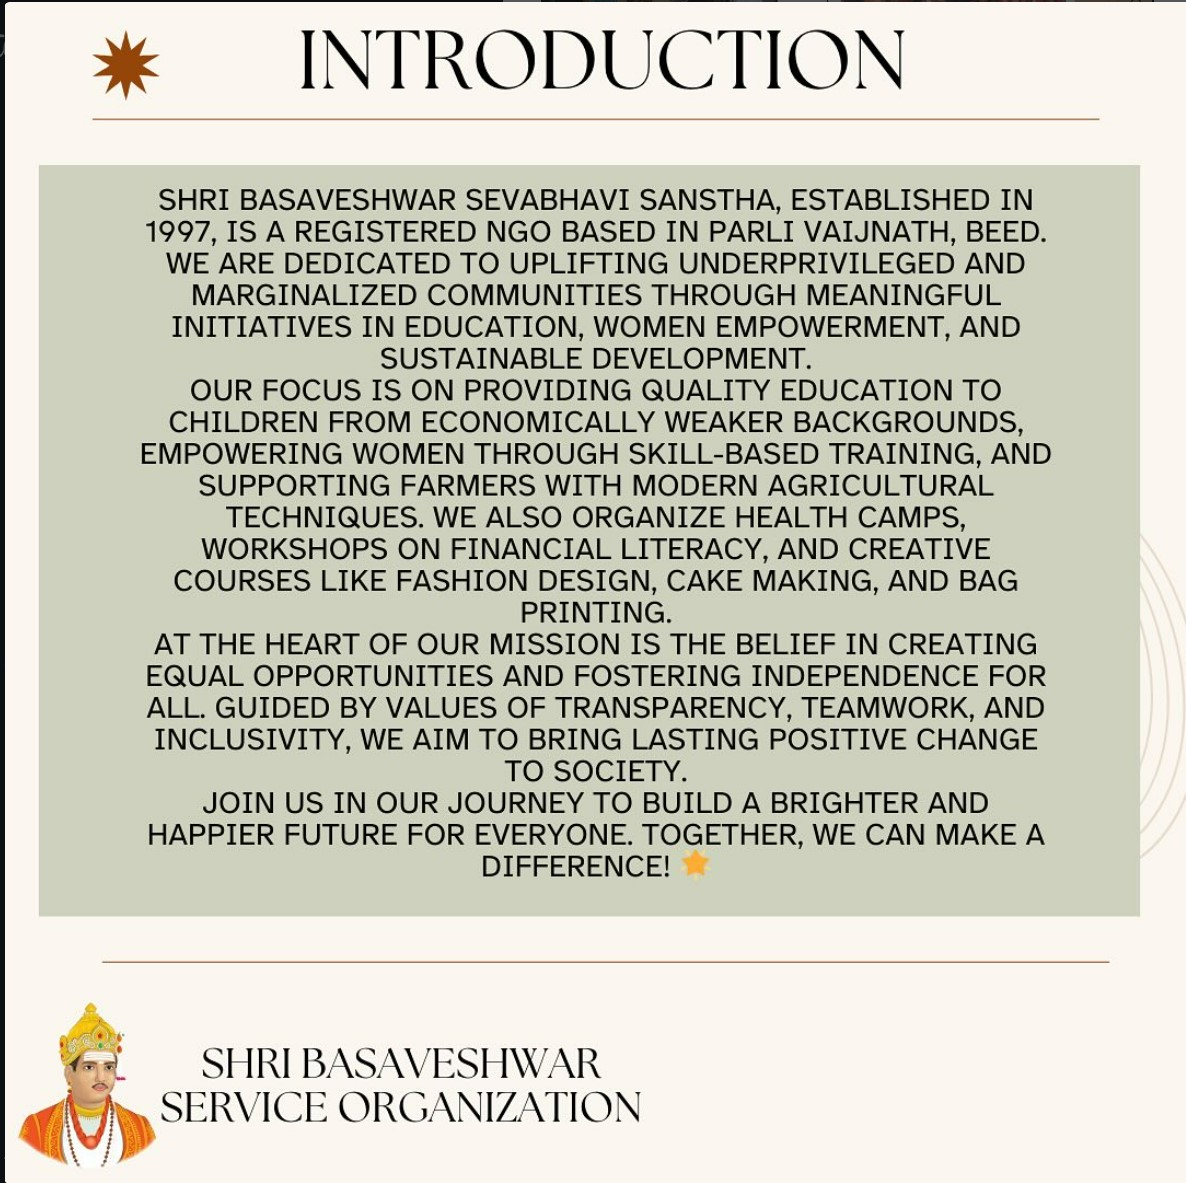
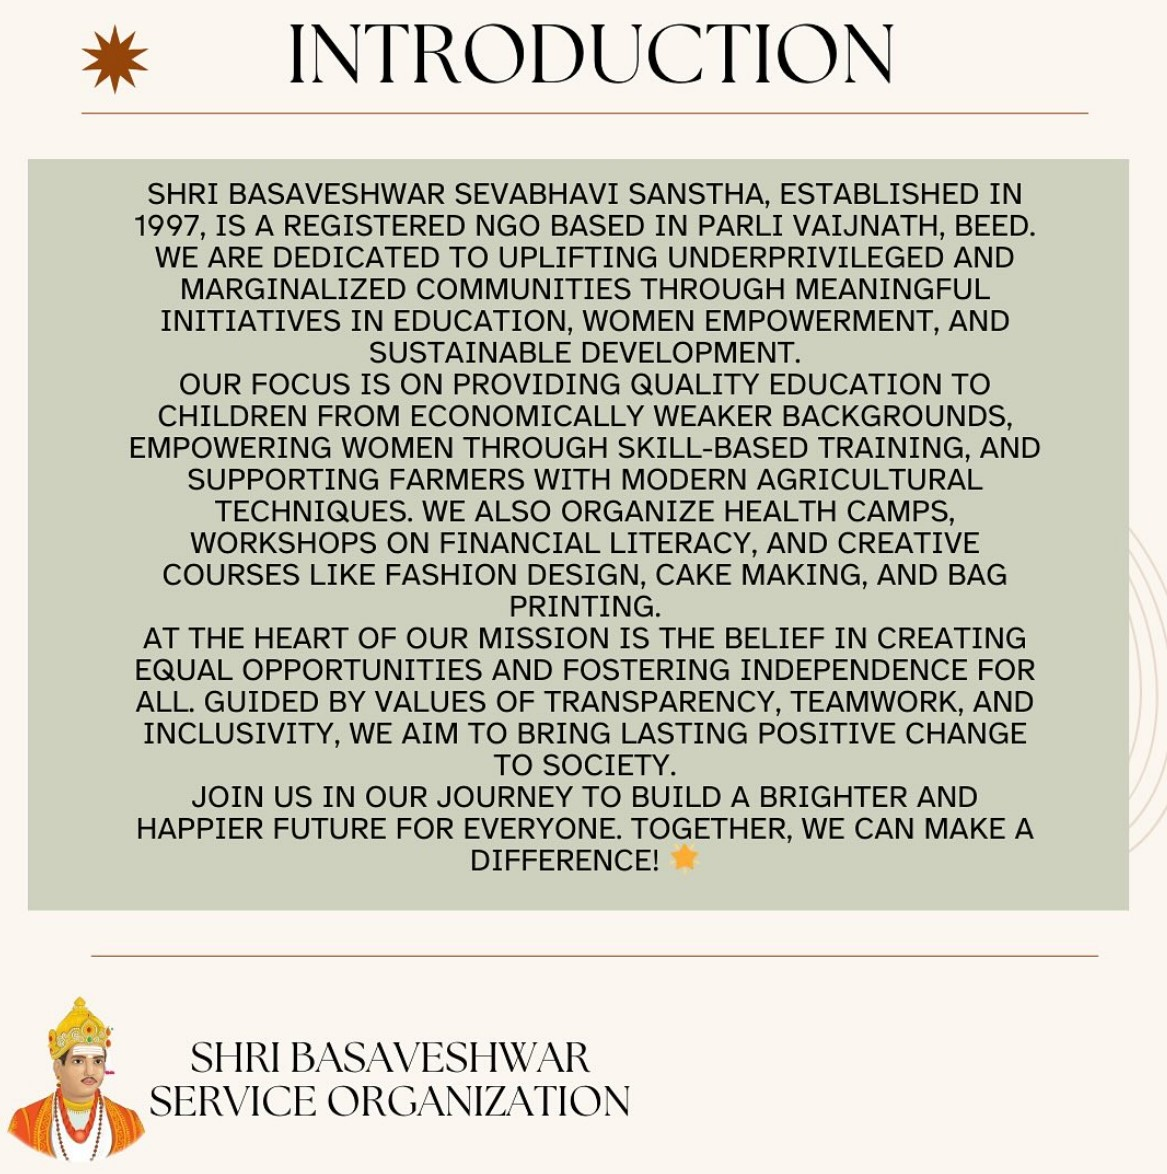
Updated Code

Changed region(s): [[0.0, 0.0, 1.0, 1.0]]

diff --git a/css/about.css b/css/about.css
@@ -136,6 +136,34 @@ body{
 .head_cont2 .black-white_icon:hover {
   cursor: pointer;
 }
+.main_content{
+  width: 100%;
+  margin-top: 120px;
+}
+.NGO_cont{
+  height: 100%;
+  width: 100%;
+  display: flex;
+  align-items: center;
+  justify-content: center;
+  gap: 30px;
+  flex-direction: column;
+}
+.NGO_intro{
+  width:60%;
+  /* border: 1px solid black; */
+  height: 100vh;
+
+}
+.NGO_intro img{
+  width: 100%;
+  height: 100%;
+  background-size: cover;
+  /* object-fit: cover; */
+  background-repeat: no-repeat;
+  background-position: center;
+  border-radius: 30px;
+}
 .foot {
   padding: 1.2rem;
   background-color: #1f2024;
@@ -144,8 +172,6 @@ body{
   display: flex;
   justify-content: space-around;
   box-shadow: 0 -2px 10px rgba(0, 0, 0, 0.15);
-  position: fixed;
-  bottom: 0;
 }
 .foot .company-info {
   display: flex;

diff --git a/frontend/about.html b/frontend/about.html
@@ -61,8 +61,12 @@
     </header>
     <main class="main_content">
       <div class="NGO_cont">
-        <div class="NGO_intro"></div>
-        <div class="NGO_objective"></div>
+        <div class="NGO_intro">
+          <img src="../img/SBSO_introduction.jpg" alt=""/>
+        </div>
+        <div class="NGO_objective">
+          <img src="../img/.jpg" alt=""/>
+        </div>
         <div class="NGO_founder"></div>
       </div>
     </main>
